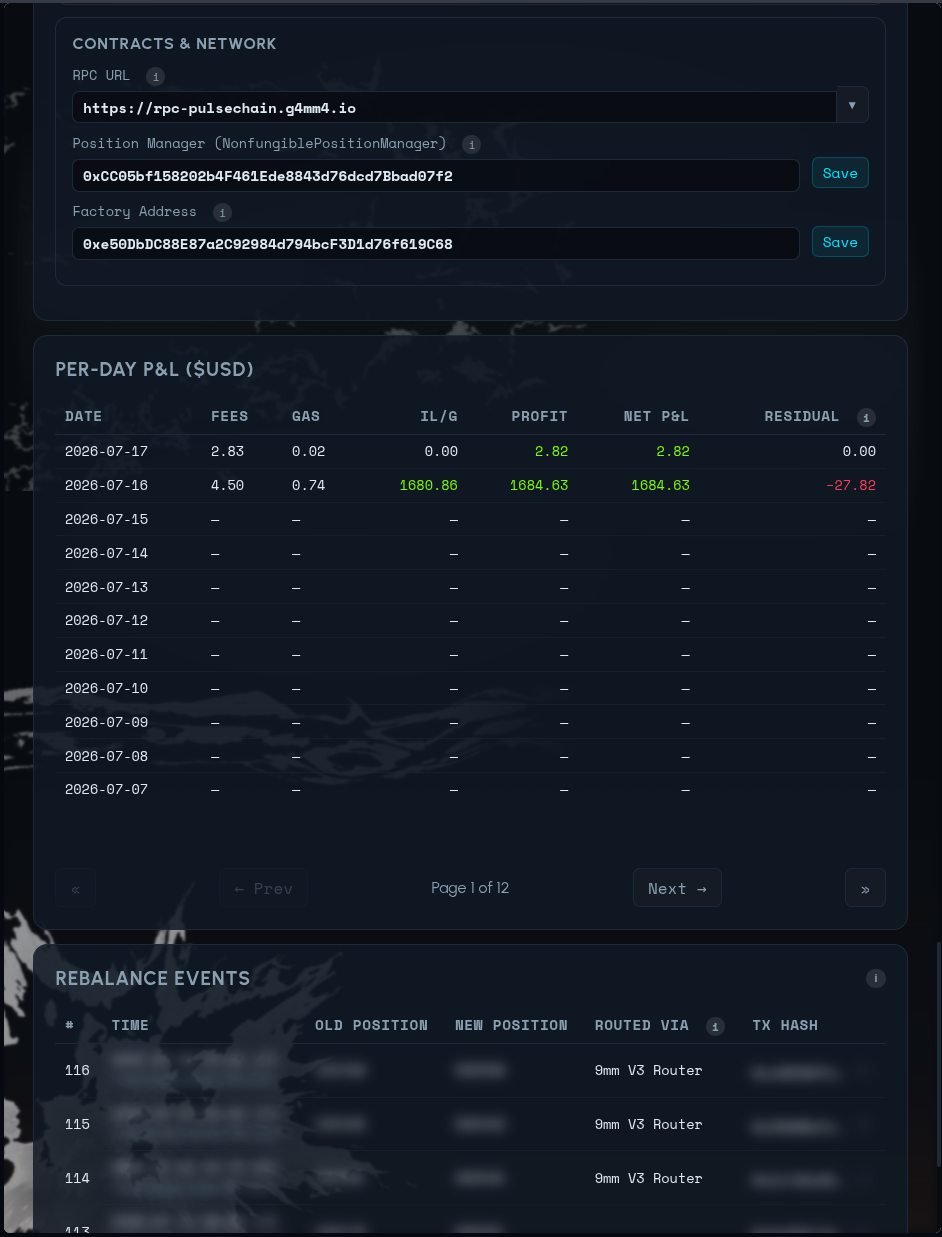
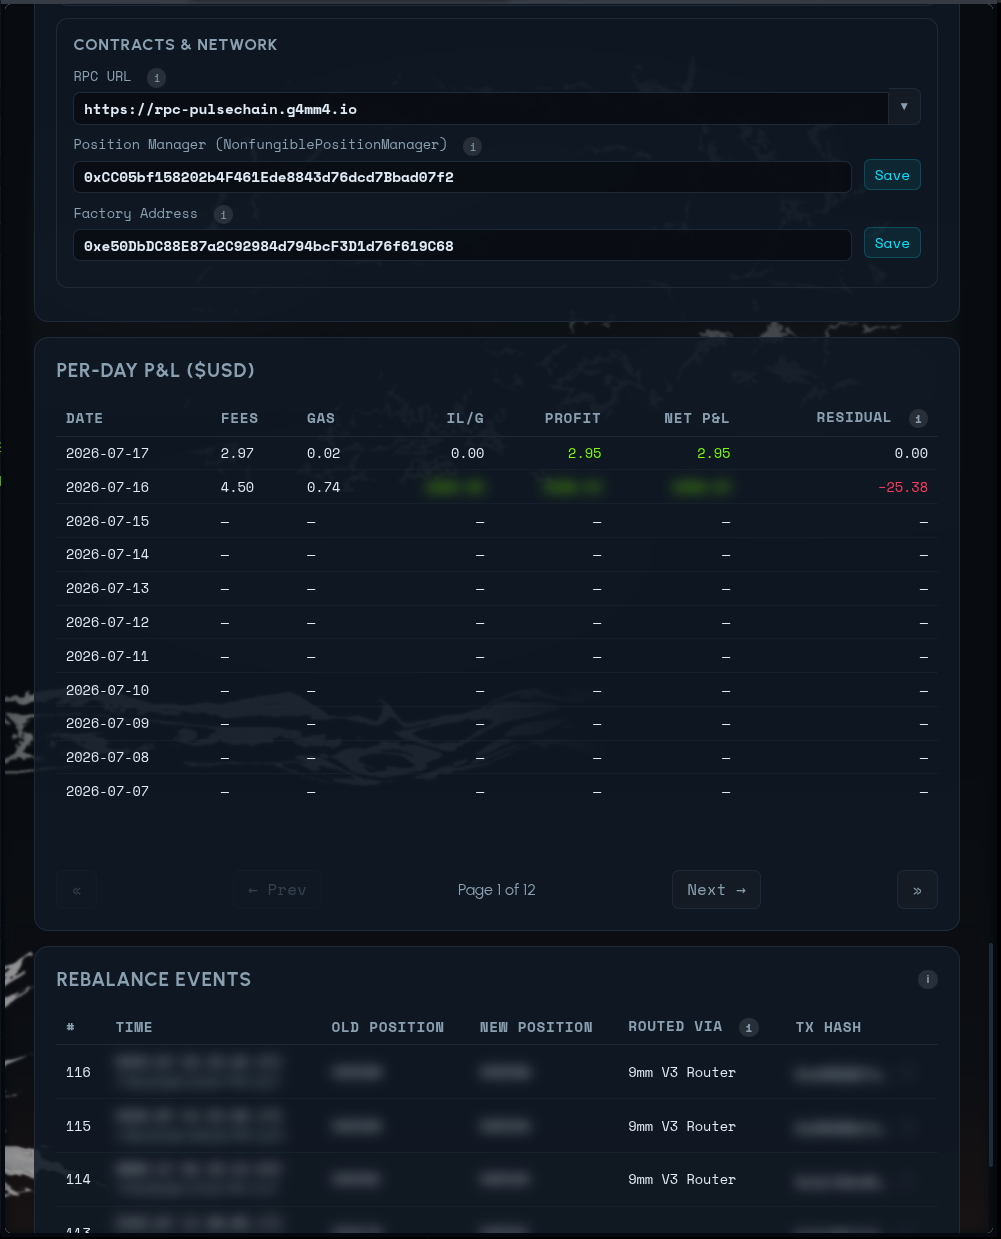
fix(privacy) + docs(gallery): blur Per-Day P&L cells + update captures
Per-Day P&L (\$USD) table cells for FEES, GAS, IL/G, PROFIT, and
NET P&L now carry data-privacy="usd-raw" so Privacy Mode blurs them
above the configured threshold; only the RESIDUAL column had the
attribute before, leaving every other USD column visible in plain
sight.

Gallery: swap the single old All Positions Stats screenshot for the
two new ones (total view + per-day view — accompanies the toggle
that shipped in 0.8.4).  Refresh dashboard-screenshot-3,
responsive-7, and responsive-8 with the Privacy Mode blur applied
to the newly-tagged Per-Day P&L cells.

diff --git a/public/index.html b/public/index.html
@@ -7,8 +7,8 @@
 <title>LP Ranger for 9mm</title>
 <link rel="icon" type="image/png" href="favicon.png">
 <link rel="stylesheet" href="fonts.css">
-<link rel="stylesheet" href="style.css?v=1784275439820">
-<link rel="stylesheet" href="9mm-pos-mgr.css?v=1784275439820">
+<link rel="stylesheet" href="style.css?v=1784279334780">
+<link rel="stylesheet" href="9mm-pos-mgr.css?v=1784279334780">
 </head>
 <body>
 
@@ -1324,11 +1324,11 @@
 <template id="tplDailyPnlRow">
   <tr>
     <td data-tpl="date"></td>
-    <td data-tpl="fees"></td>
-    <td data-tpl="gas"></td>
-    <td class="9mm-pos-mgr-text-right" data-tpl="ilg"></td>
-    <td class="9mm-pos-mgr-text-right" data-tpl="profit"></td>
-    <td class="9mm-pos-mgr-text-right" data-tpl="net"></td>
+    <td data-tpl="fees" data-privacy="usd-raw"></td>
+    <td data-tpl="gas" data-privacy="usd-raw"></td>
+    <td class="9mm-pos-mgr-text-right" data-tpl="ilg" data-privacy="usd-raw"></td>
+    <td class="9mm-pos-mgr-text-right" data-tpl="profit" data-privacy="usd-raw"></td>
+    <td class="9mm-pos-mgr-text-right" data-tpl="net" data-privacy="usd-raw"></td>
     <td class="9mm-pos-mgr-text-right" data-tpl="residual" data-privacy="usd-raw"></td>
   </tr>
 </template>
@@ -1409,6 +1409,6 @@
 </template>
 
 <!-- Dashboard bundle (built by esbuild from dashboard-init.js) -->
-<script src="dist/bundle.js?v=1784275439820"></script>
+<script src="dist/bundle.js?v=1784279334780"></script>
 </body>
 </html>

diff --git a/public/screenshot-gallery.html b/public/screenshot-gallery.html
@@ -54,8 +54,13 @@
   <h2 id="data-dialogs">Data Dialogs</h2>
   <p>Dialogs that surface at-a-glance data across your open positions.</p>
   <figure class="gallery-figure">
-    <a href="images/dashboard-screenshot-data-dialog-all-positions-stats.png">
-      <img src="images/dashboard-screenshot-data-dialog-all-positions-stats.png" alt="All Positions Stats">
+    <a href="images/dashboard-screenshot-data-dialog-all-positions-stats-1.png">
+      <img src="images/dashboard-screenshot-data-dialog-all-positions-stats-1.png" alt="All Positions Stats — total view">
+    </a>
+  </figure>
+  <figure class="gallery-figure">
+    <a href="images/dashboard-screenshot-data-dialog-all-positions-stats-2.png">
+      <img src="images/dashboard-screenshot-data-dialog-all-positions-stats-2.png" alt="All Positions Stats — per-day view">
     </a>
   </figure>
   <figure class="gallery-figure">

diff --git a/public/9mm-pos-mgr.css b/public/9mm-pos-mgr.css
@@ -3089,7 +3089,7 @@ span[title]:not([title=""]):hover {
 
 .\39 mm-pos-mgr-cloud-top {
   top: 10px;
-  background-image: url("background-cloud_top.png?v=1784277574493");
+  background-image: url("background-cloud_top.png?v=1784279334780");
   animation-duration: var(--cloud-top-speed);
 
   /* - ⅔-through the bottom's cycle; phase drifts over time because
@@ -3102,7 +3102,7 @@ span[title]:not([title=""]):hover {
 
 .\39 mm-pos-mgr-cloud-middle {
   top: 40%;
-  background-image: url("background-cloud_middle.png?v=1784277574493");
+  background-image: url("background-cloud_middle.png?v=1784279334780");
   animation-duration: var(--cloud-middle-speed);
   animation-delay: calc(-1 * var(--cloud-max-speed) / 3);
 
@@ -3112,7 +3112,7 @@ span[title]:not([title=""]):hover {
 
 .\39 mm-pos-mgr-cloud-bottom {
   top: 70%;
-  background-image: url("background-cloud_bottom.png?v=1784277574493");
+  background-image: url("background-cloud_bottom.png?v=1784279334780");
   animation-duration: var(--cloud-max-speed);
 
   /* - Nearest to viewer — densest for atmospheric perspective. */